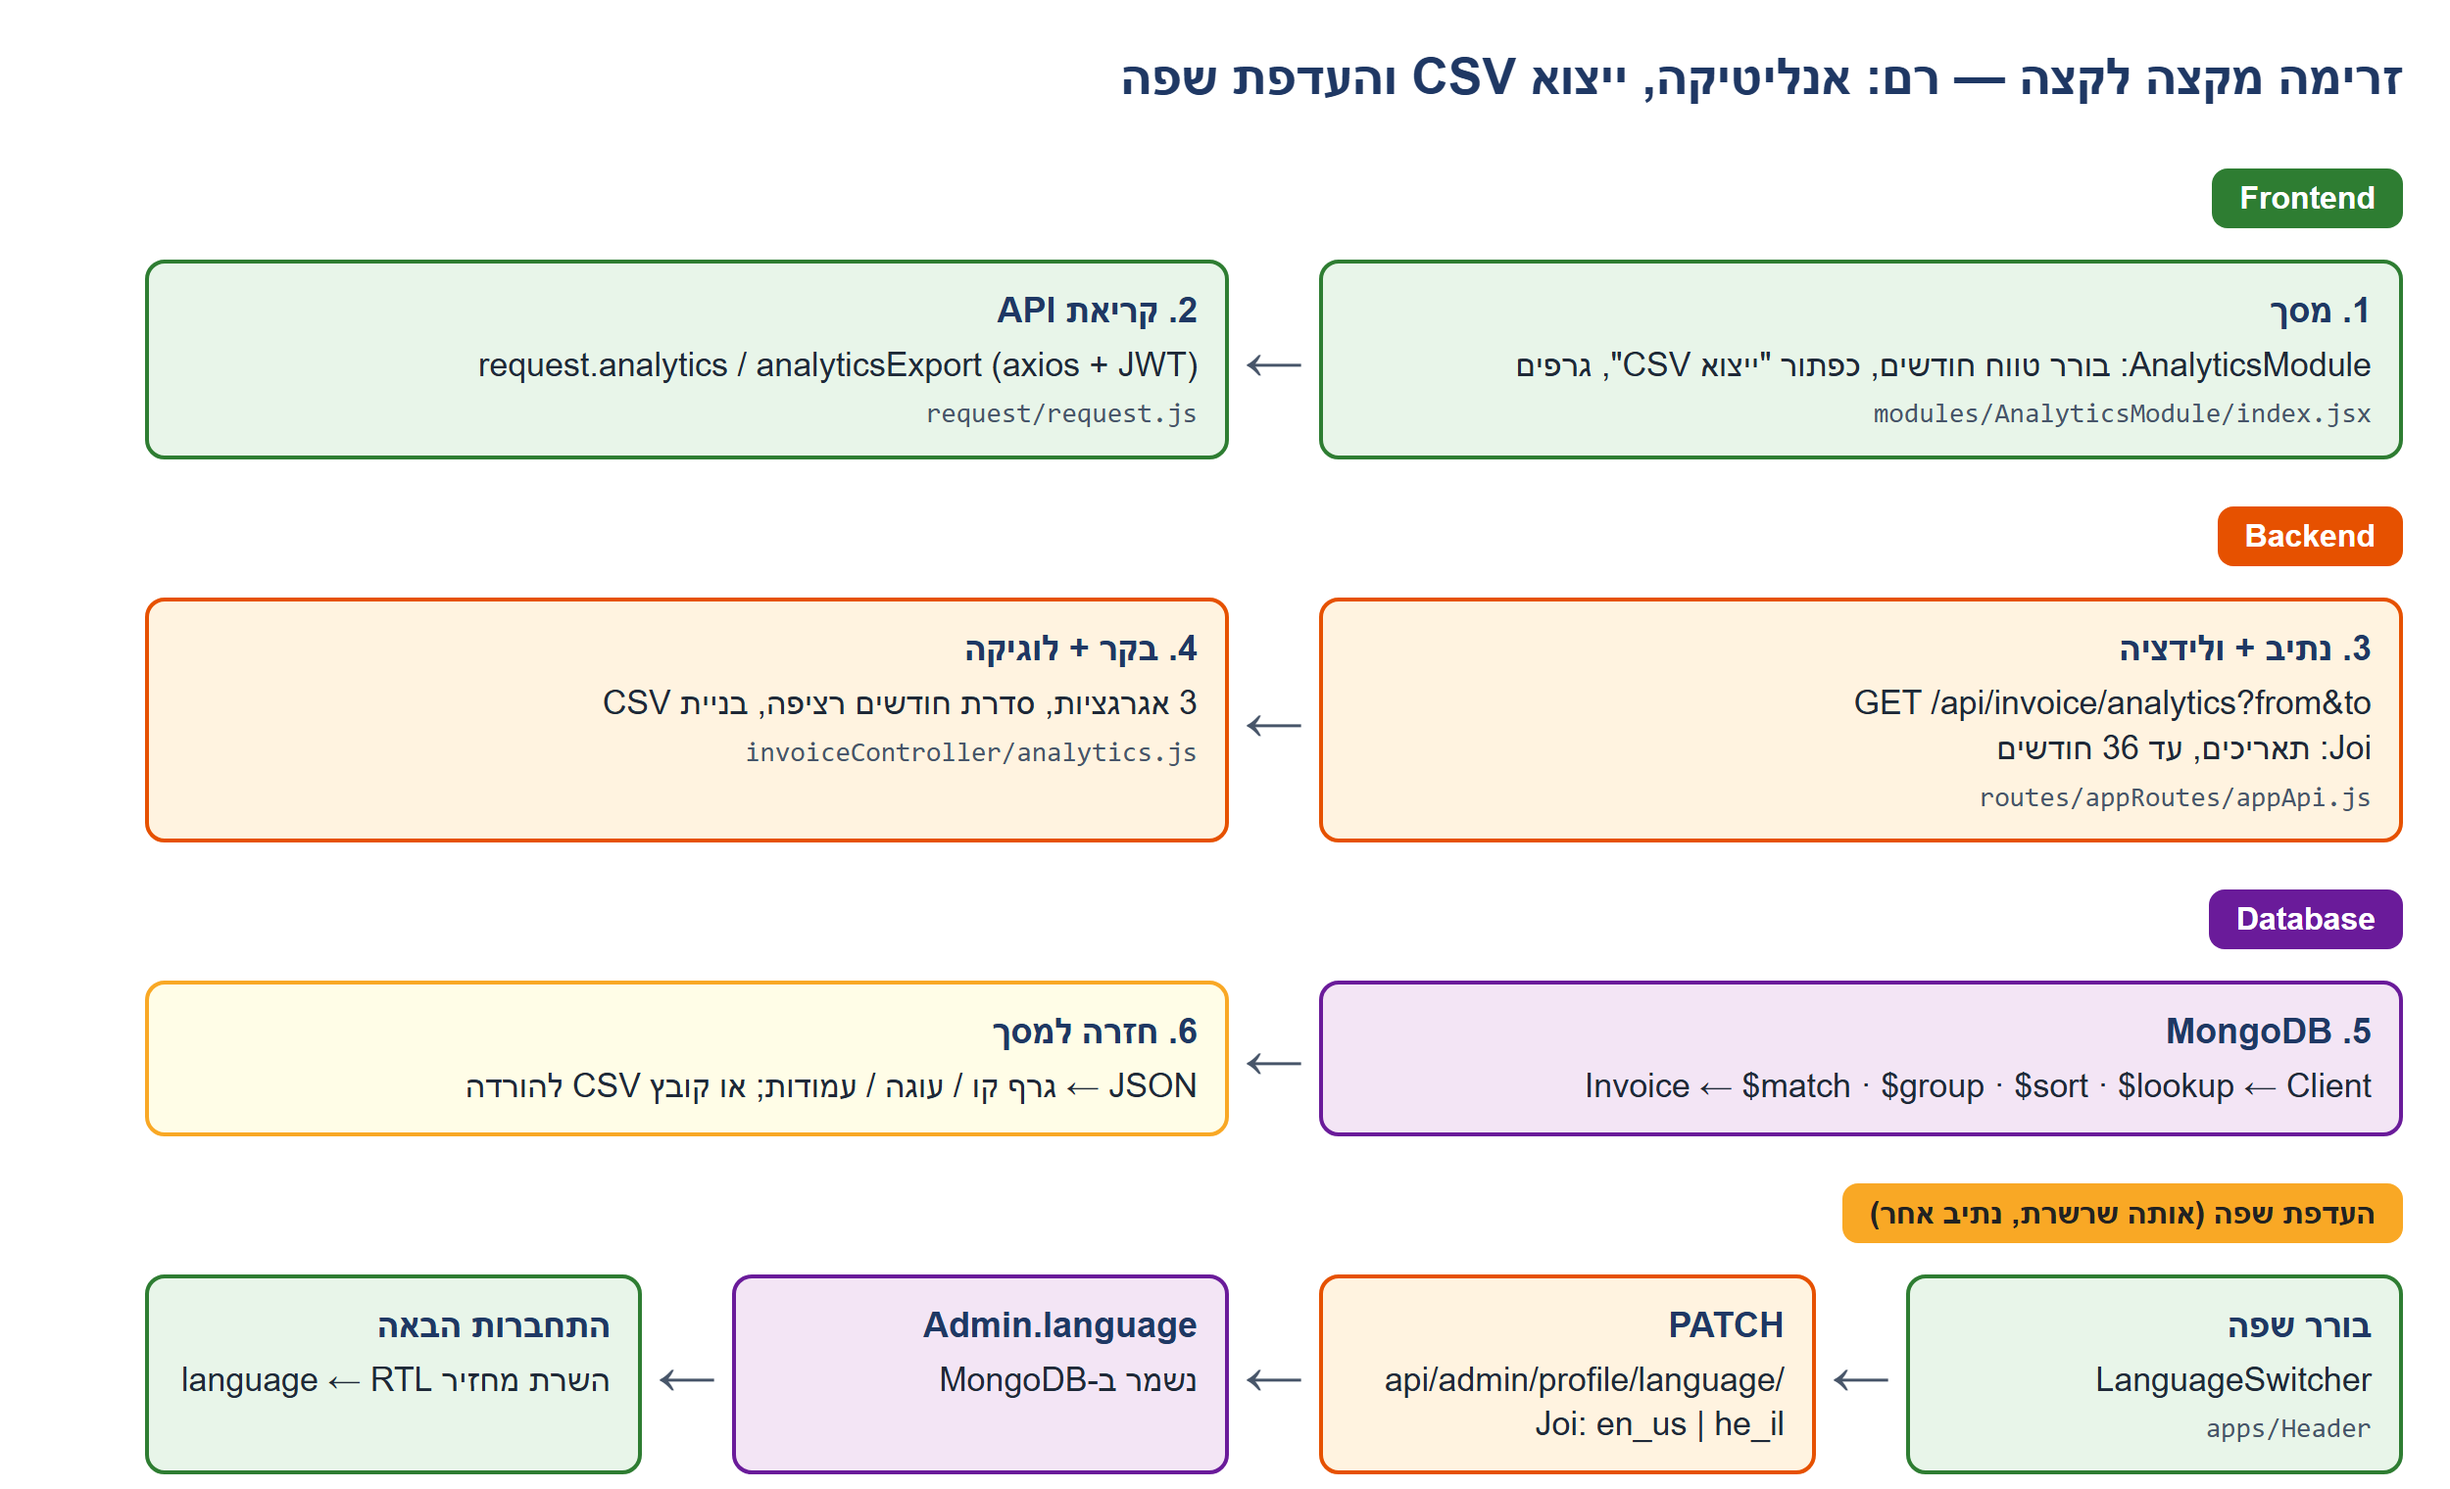
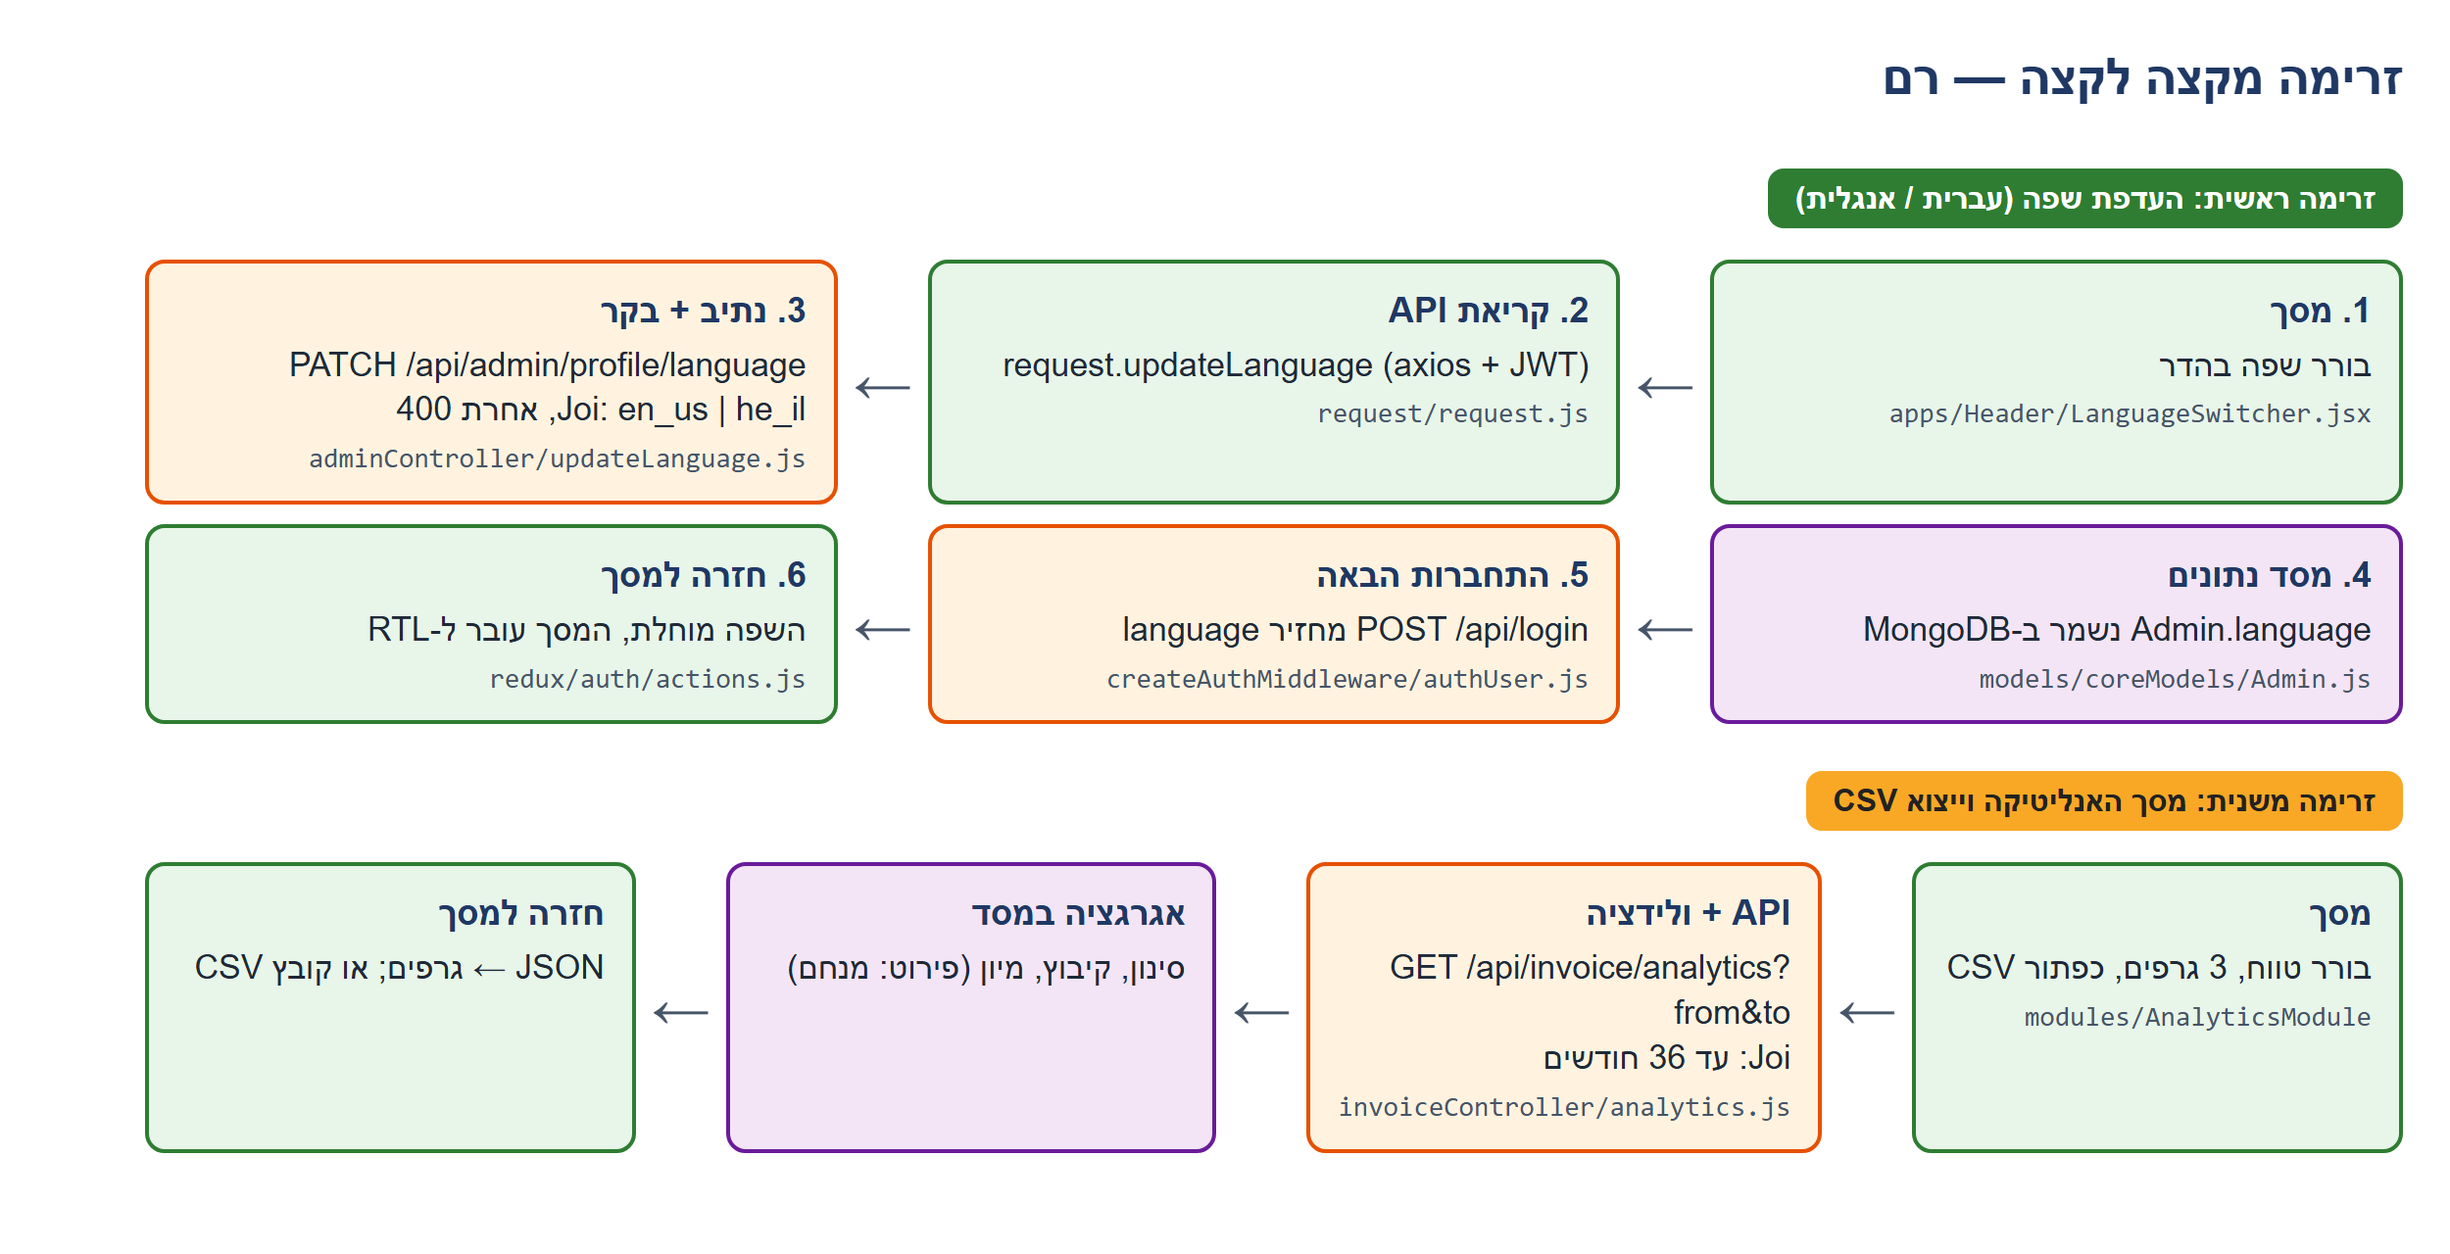
[AI] Ram's division: language preference as primary end-to-end flow, analytics/CSV as secondary (book, guide, Q&A, diagram)

diff --git a/docs/book/diagrams/ram.html b/docs/book/diagrams/ram.html
@@ -1,28 +1,25 @@
 <!doctype html><html lang="he" dir="rtl"><head><meta charset="utf-8"><link rel="stylesheet" href="style.css"></head><body>
-<h1>זרימה מקצה לקצה — רם: אנליטיקה, ייצוא CSV והעדפת שפה</h1>
-<div class="lane fe">Frontend</div>
+<h1>זרימה מקצה לקצה — רם</h1>
+<div class="lane fe">זרימה ראשית: העדפת שפה (עברית / אנגלית)</div>
 <div class="row">
-<div class="box fe"><b>1. מסך</b>AnalyticsModule: בורר טווח חודשים, כפתור "ייצוא CSV", גרפים<small>modules/AnalyticsModule/index.jsx</small></div>
+<div class="box fe"><b>1. מסך</b>בורר שפה בהדר<small>apps/Header/LanguageSwitcher.jsx</small></div>
 <div class="arrow">←</div>
-<div class="box fe"><b>2. קריאת API</b>request.analytics / analyticsExport (axios + JWT)<small>request/request.js</small></div>
-</div>
-<div class="lane be">Backend</div>
-<div class="row">
-<div class="box be"><b>3. נתיב + ולידציה</b>GET /api/invoice/analytics?from&amp;to<br>Joi: תאריכים, עד 36 חודשים<small>routes/appRoutes/appApi.js</small></div>
+<div class="box fe"><b>2. קריאת API</b>request.updateLanguage (axios + JWT)<small>request/request.js</small></div>
 <div class="arrow">←</div>
-<div class="box be"><b>4. בקר + לוגיקה</b>3 אגרגציות, סדרת חודשים רציפה, בניית CSV<small>invoiceController/analytics.js</small></div>
+<div class="box be"><b>3. נתיב + בקר</b>PATCH /api/admin/profile/language<br>Joi: en_us | he_il, אחרת 400<small>adminController/updateLanguage.js</small></div>
 </div>
-<div class="lane db">Database</div>
 <div class="row">
-<div class="box db"><b>5. MongoDB</b>Invoice ← $match · $group · $sort · $lookup ← Client</div>
+<div class="box db"><b>4. מסד נתונים</b>Admin.language נשמר ב-MongoDB<small>models/coreModels/Admin.js</small></div>
 <div class="arrow">←</div>
-<div class="box t"><b>6. חזרה למסך</b>JSON ← גרף קו / עוגה / עמודות; או קובץ CSV להורדה</div>
+<div class="box be"><b>5. התחברות הבאה</b>POST /api/login מחזיר language<small>createAuthMiddleware/authUser.js</small></div>
+<div class="arrow">←</div>
+<div class="box fe"><b>6. חזרה למסך</b>השפה מוחלת, המסך עובר ל-RTL<small>redux/auth/actions.js</small></div>
 </div>
-<div class="lane t">העדפת שפה (אותה שרשרת, נתיב אחר)</div>
+<div class="lane t">זרימה משנית: מסך האנליטיקה וייצוא CSV</div>
 <div class="row">
-<div class="box fe"><b>בורר שפה</b>LanguageSwitcher<small>apps/Header</small></div><div class="arrow">←</div>
-<div class="box be"><b>PATCH</b>/api/admin/profile/language<br>Joi: en_us | he_il</div><div class="arrow">←</div>
-<div class="box db"><b>Admin.language</b>נשמר ב-MongoDB</div><div class="arrow">←</div>
-<div class="box fe"><b>התחברות הבאה</b>השרת מחזיר language ← RTL</div>
+<div class="box fe"><b>מסך</b>בורר טווח, 3 גרפים, כפתור CSV<small>modules/AnalyticsModule</small></div><div class="arrow">←</div>
+<div class="box be"><b>API + ולידציה</b>GET /api/invoice/analytics?from&amp;to<br>Joi: עד 36 חודשים<small>invoiceController/analytics.js</small></div><div class="arrow">←</div>
+<div class="box db"><b>אגרגציה במסד</b>סינון, קיבוץ, מיון (פירוט: מנחם)</div><div class="arrow">←</div>
+<div class="box fe"><b>חזרה למסך</b>JSON ← גרפים; או קובץ CSV</div>
 </div>
 </body></html>
